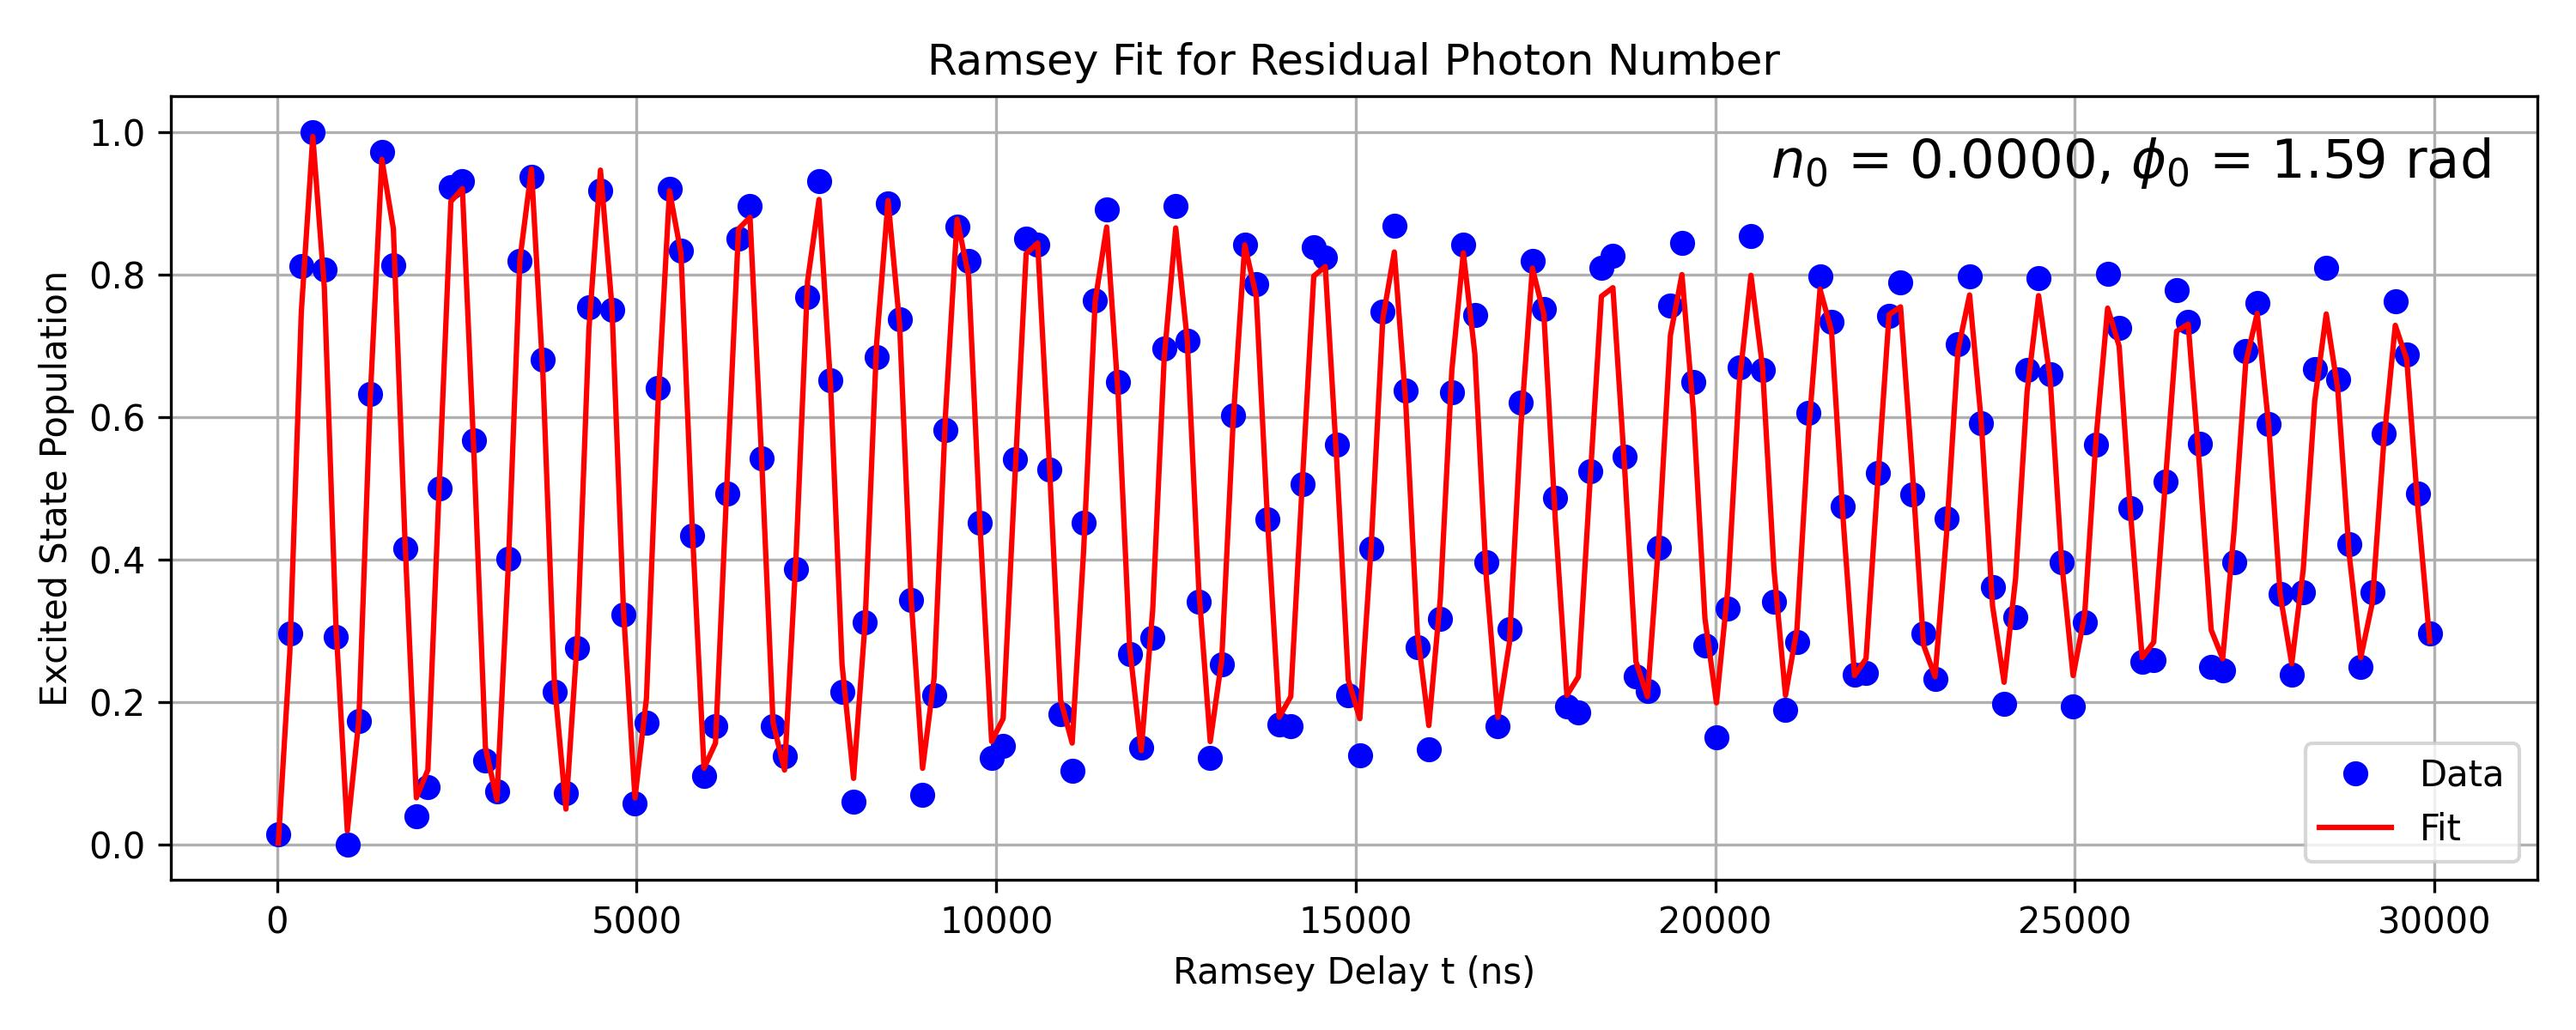
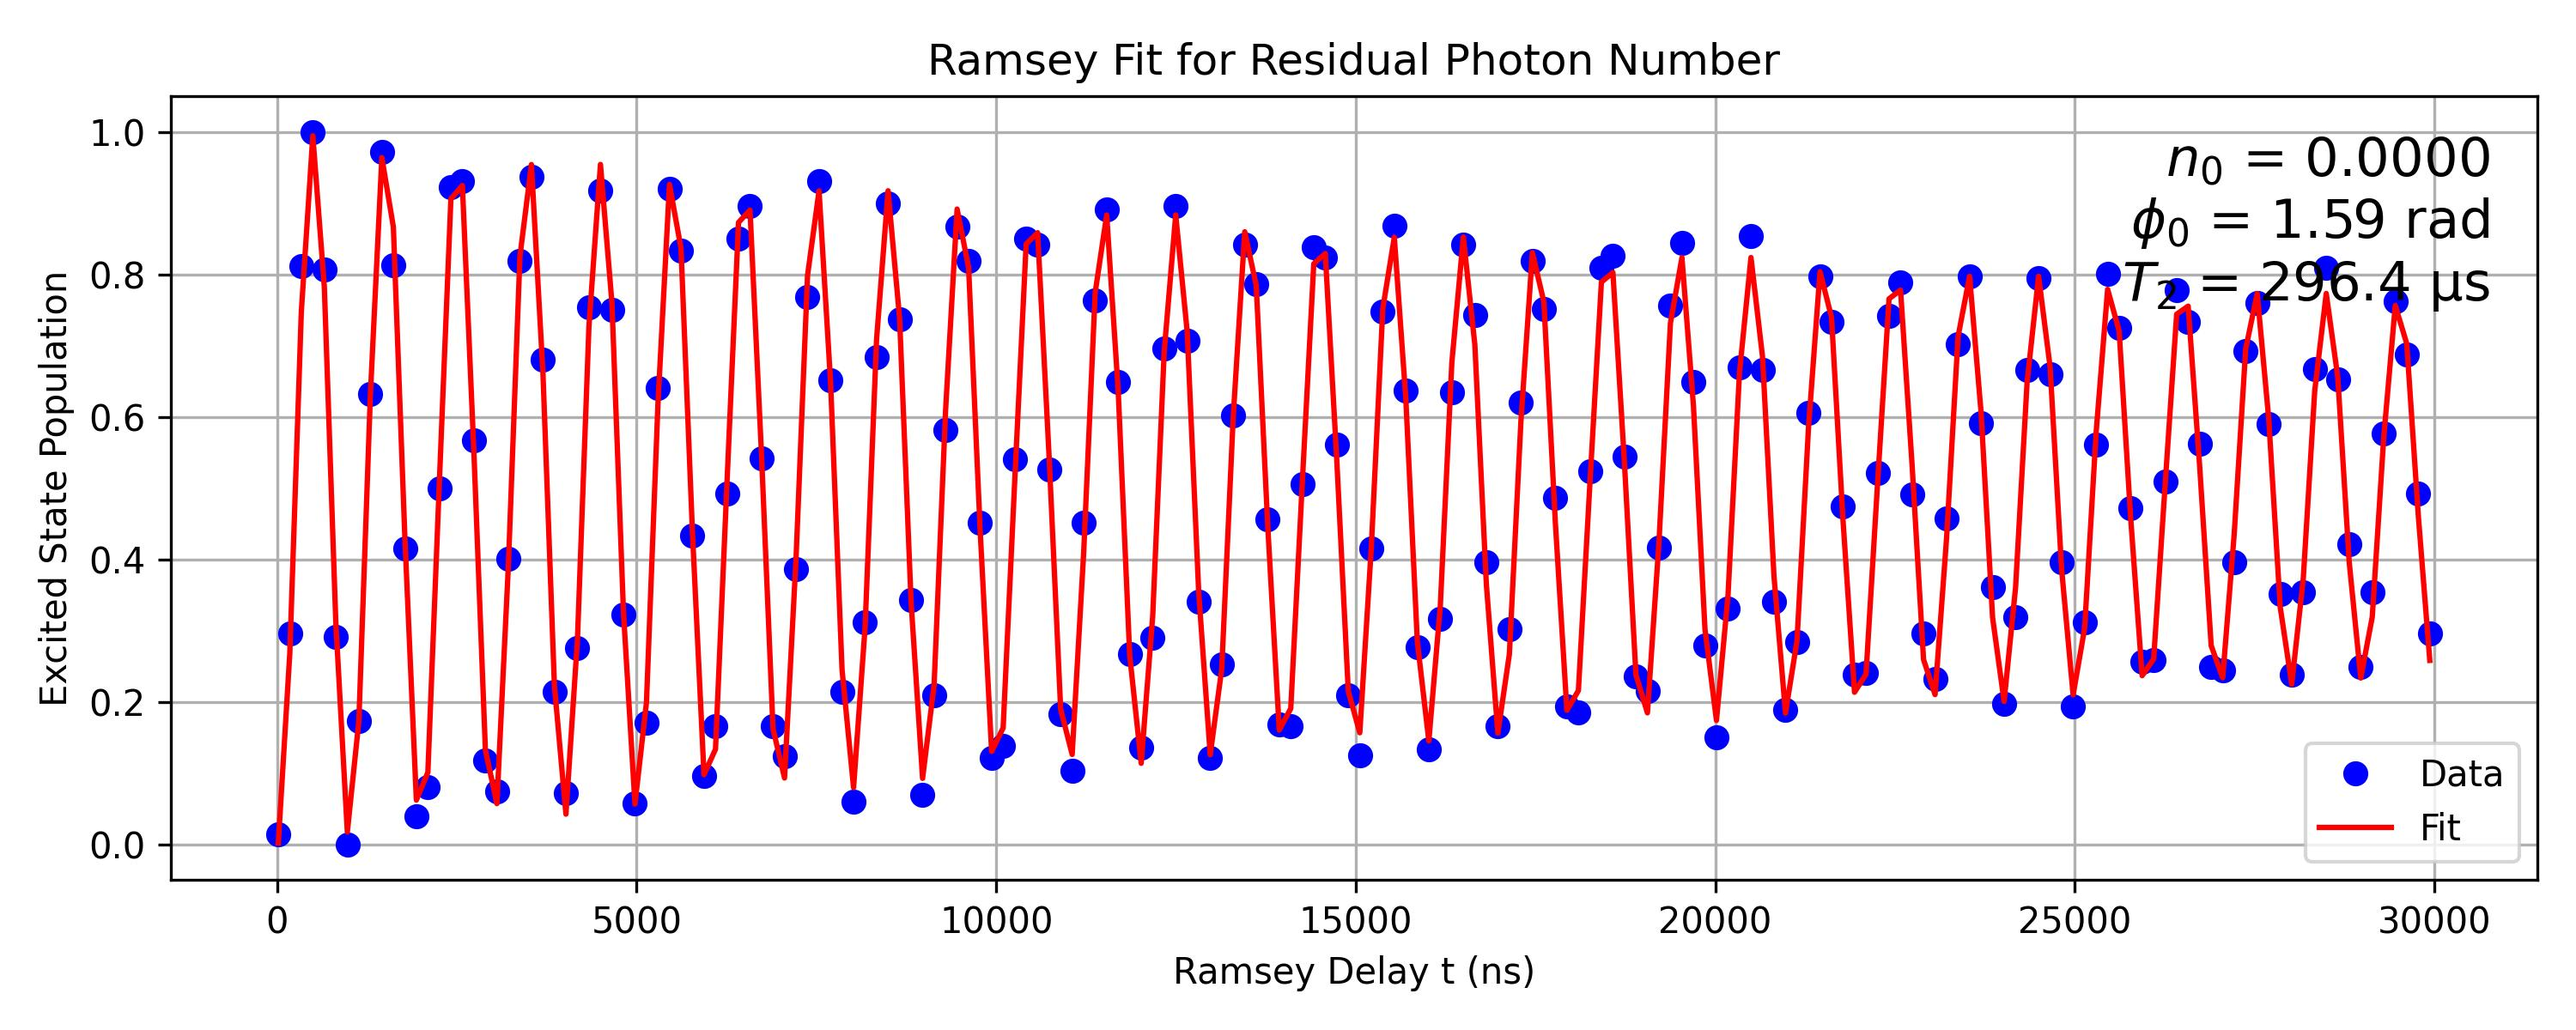
Fix: Updated Ramsey Fit for batch processing

diff --git a/Photon Fitting Data/RamseyFit.py b/Photon Fitting Data/RamseyFit.py
@@ -2,40 +2,41 @@ from scipy.optimize import curve_fit
 import h5py
 import numpy as np
 import matplotlib.pyplot as plt
+from datetime import datetime
+import os
 
-qubit = "A"
+# To adjust according to experiment
+qubit = "B"
+start_time = datetime.strptime("14-14-00", "%H-%M-%S")
+end_time   = datetime.strptime("14-31-00", "%H-%M-%S")
+tlist = np.round(np.linspace(4, 1000, 30)).astype(int)
 
-filepath = f"Photon Fitting Data/q{qubit}.hdf5"
-base, _ = filepath.rsplit('.', 1)  # split at last dot
-fit_filepath = f"{base}_ramsey_fit.jpeg"
 
-delta = 2 * np.pi * 1e6 #1MHz virtual detuning
+relative_dir = "Test"  # working directory
+script_dir = os.path.dirname(os.path.abspath(__file__))
+data_directory = os.path.join(script_dir, relative_dir)
+CLEAR_directory = ""
+
+delta = 1e6 #1MHz virtual detuning
 
 # T2 refers to T2 Echo
 qubit_specs = {
     "qA": {
         "chi": 0.64e6,
         "kappa": 2.273e6,
-        "T2": 110.2e-6, # Adjust this to fit to measurement
+        "T2": 21.5e-6
     },
     "qB": {
         "chi": 0.4e6,
         "kappa": 5.2125e6,
-        "T2": 250.2e-6, # Adjust this to fit to measurement
+        "T2": 37e-6,
     },
     "qC": {
         "chi": 0.5e6,
         "kappa": 6.547e6,
-        "T2": 6.5e-6, # Adjust this to fit to measurement
+        "T2": 6.5e-6, 
     }
 }
-
-with h5py.File(filepath, 'r') as f:
-    t_data = np.array(f["time_delay"]).flatten() * 1e-9  # in nanoseconds
-    p_data = np.array(f["single_shot"])  # excited population [0,1]
-    p_data_mean = p_data.mean(axis=0) 
-    p_norm = (p_data_mean - np.min(p_data_mean)) / (np.max(p_data_mean) - np.min(p_data_mean))
-
 
 # From CLEAR paper
 """
@@ -49,48 +50,108 @@ This expression accounts for:
 
 So the qubit state acquires a nonlinear, time-dependent phase, and this is what's observed as a distorted Ramsey oscillation.
 """
-def ramsey_model(t, n0, phi0, delta, kappa, chi, Gamma2):
+def ramsey_model(t, n0, phi0, Gamma2, kappa, delta, chi):
+
+    chi *= 2 * np.pi
+    kappa *= 2 * np.pi
+    delta *= 2 * np.pi
+    Gamma2 *= 2 * np.pi
+
     tau = (1 - np.exp(-(kappa + 2j * chi) * t)) / (kappa + 2j * chi)
     phase = -(Gamma2 + 1j * delta)* t + 1j * (phi0 - 2 * n0 * chi * tau)
     return 0.5 * (1 - np.imag(np.exp(phase)))
 
-# Known constants from separate calibrations
-chi = 2 * np.pi * qubit_specs[f"q{qubit}"]["chi"]
-kappa = 2 * np.pi * qubit_specs[f"q{qubit}"]["kappa"]
-Gamma2 = 2 * np.pi * 1 /qubit_specs[f"q{qubit}"]["T2"]
 
-# t_data in nanosecon ds, p_data is measured excited state probability
-popt, pcov = curve_fit(
-    lambda t, n0, phi0: ramsey_model(t, n0, phi0, delta, kappa, chi, Gamma2),
-    t_data,
-    p_norm,
-    p0=[1.0, 0],  # Initial guesses: n0, phi0,
-    bounds=([0, -2*np.pi], [15, 2*np.pi]),  # example
-)
+def extract_residual_photons(filepath):
+    # filepath = f"Photon Fitting Data/q{qubit}.hdf5"
+    base, _ = filepath.rsplit('.', 1)  # split at last dot
+    fit_filepath = f"{base}_ramsey_fit.jpeg"
 
-n0_fit, phi0_fit = popt
-print("Estimated residual photon number:", n0_fit)
-print("Estimated phase:", phi0_fit)
+    with h5py.File(filepath, 'r') as f:
+        t_data = np.array(f["time_delay"]).flatten() * 1e-9  # in nanoseconds
+        p_data = np.array(f["single_shot"])  # excited population [0,1]
+        p_data_mean = p_data.mean(axis=0) 
+        p_norm = (p_data_mean - np.min(p_data_mean)) / (np.max(p_data_mean) - np.min(p_data_mean))
 
-# Plot fit vs data
-plt.figure(figsize=(10, 4)) 
-plt.plot(t_data * 1e9, p_norm, 'bo', label='Data')
-plt.plot(t_data * 1e9, ramsey_model(t_data, *popt, delta, kappa, chi, Gamma2), 'r-', label='Fit')
-plt.text(
-    0.98, 0.95,  # x,y in axes fraction (0 to 1)
-    f"$n_0$ = {n0_fit:.4f}, $\\phi_0$ = {phi0_fit:.2f} rad",
-    fontsize=15,
-    color='black',
-    ha='right',
-    va='top',
-    transform=plt.gca().transAxes  # coordinate system relative to axes
-)
-plt.xlabel("Ramsey Delay t (ns)")
-plt.ylabel("Excited State Population")
-plt.title("Ramsey Fit for Residual Photon Number")
-plt.legend()
-plt.grid(True)
-plt.tight_layout()
-plt.savefig(fit_filepath, dpi=300)  # save figure with 300 dpi resolution
+    # Known constants from separate calibrations
+    chi = qubit_specs[f"q{qubit}"]["chi"]
+    kappa = qubit_specs[f"q{qubit}"]["kappa"]
+    Gamma2 = 1 /qubit_specs[f"q{qubit}"]["T2"]
 
-plt.show()
+    # t_data in nanosecon ds, p_data is measured excited state probability
+    popt, pcov = curve_fit(
+        lambda t, n0, phi0, T2: ramsey_model(t, n0, phi0, T2, kappa, delta, chi),
+        t_data,
+        p_norm,
+        p0=[1.0, 0, 1/qubit_specs[f"q{qubit}"]["T2"]],  # Initial guesses: n0, phi0,
+        bounds=([0, -2*np.pi, 1/300e-6], [15, 2*np.pi, 1/1e-6]),  # example
+    )
+
+    n0_fit, phi0_fit, T2_fit = popt
+
+    # --- Print estimated parameters ---
+    print("Estimated residual photon number (n0):", n0_fit)
+    print("Estimated phase (phi0):", phi0_fit)
+    print(f"Estimated T2: {1/T2_fit:.3e} s")
+    # print(f"Estimated kappa: {kappa_fit/1e6:.3f} MHz")
+
+    # --- Plot fit vs data ---
+    plt.figure(figsize=(10, 4)) 
+    plt.plot(t_data * 1e9, p_norm, 'bo', label='Data')
+    plt.plot(t_data * 1e9, ramsey_model(t_data, *popt, kappa, delta, chi), 'r-', label='Fit')
+
+    # Annotate plot with fitted values
+    plt.text(
+        0.98, 0.95,
+        f"$n_0$ = {n0_fit:.4f}\n"
+        f"$\\phi_0$ = {phi0_fit:.2f} rad\n"
+        f"$T_2$ = {1/T2_fit*1e6:.1f} µs\n",
+        # f"$\\kappa$ = {kappa_fit/1e6:.2f} MHz",
+        fontsize=15,
+        color='black',
+        ha='right',
+        va='top',
+        transform=plt.gca().transAxes
+    )
+
+    plt.xlabel("Ramsey Delay t (ns)")
+    plt.ylabel("Excited State Population")
+    plt.title("Ramsey Fit for Residual Photon Number")
+    plt.legend()
+    plt.grid(True)
+    plt.tight_layout()
+    plt.savefig(fit_filepath, dpi=300)  # save figure with 300 dpi resolution
+    plt.close() 
+
+    return n0_fit
+
+if __name__ == "__main__":
+
+    photon_list = []
+
+    for filename in os.listdir(data_directory):
+        if filename.endswith(".hdf5"):
+            try:
+                # Extract HH-MM-SS from filename
+                timestamp_str = filename.split("_")[0]
+                file_time = datetime.strptime(timestamp_str, "%H-%M-%S")
+
+                # Check if within desired range
+                if start_time <= file_time <= end_time:
+                    n = extract_residual_photons(os.path.join(data_directory, filename))
+                    photon_list.append(n)
+
+            except Exception as e:
+                print(f"Skipping {filename}: {e}")
+
+    plt.figure()
+    plt.plot(tlist, photon_list)
+    plt.xlabel("Time (ns)")
+    plt.ylabel("Residual Photon Number")
+    plt.title("Residual Photon Number vs Time")
+    plt.legend()
+    plt.grid(True)
+    plt.tight_layout()
+    plt.savefig(os.path.join(CLEAR_directory, "n0.png"), dpi=300)  # save figure with 300 dpi resolution
+    plt.show()
+    
